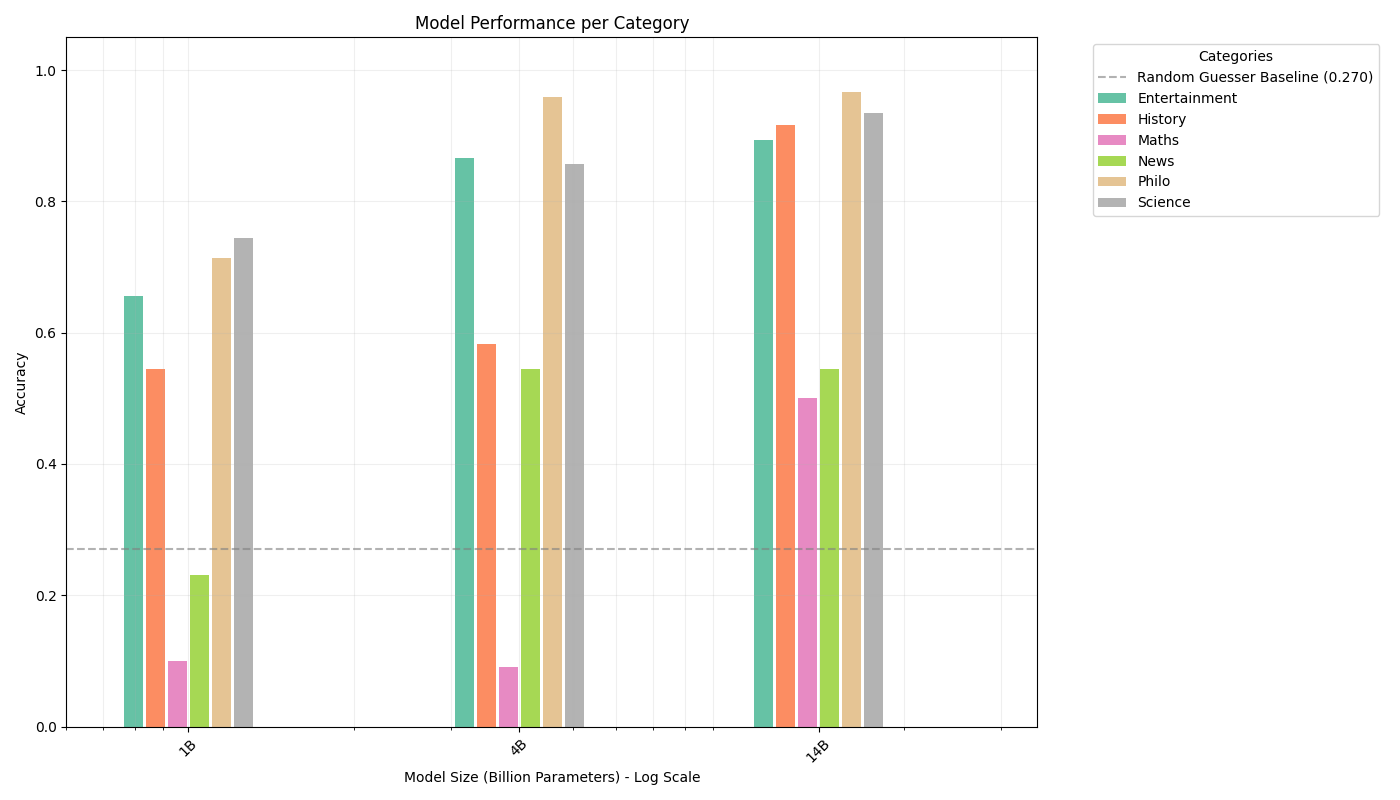
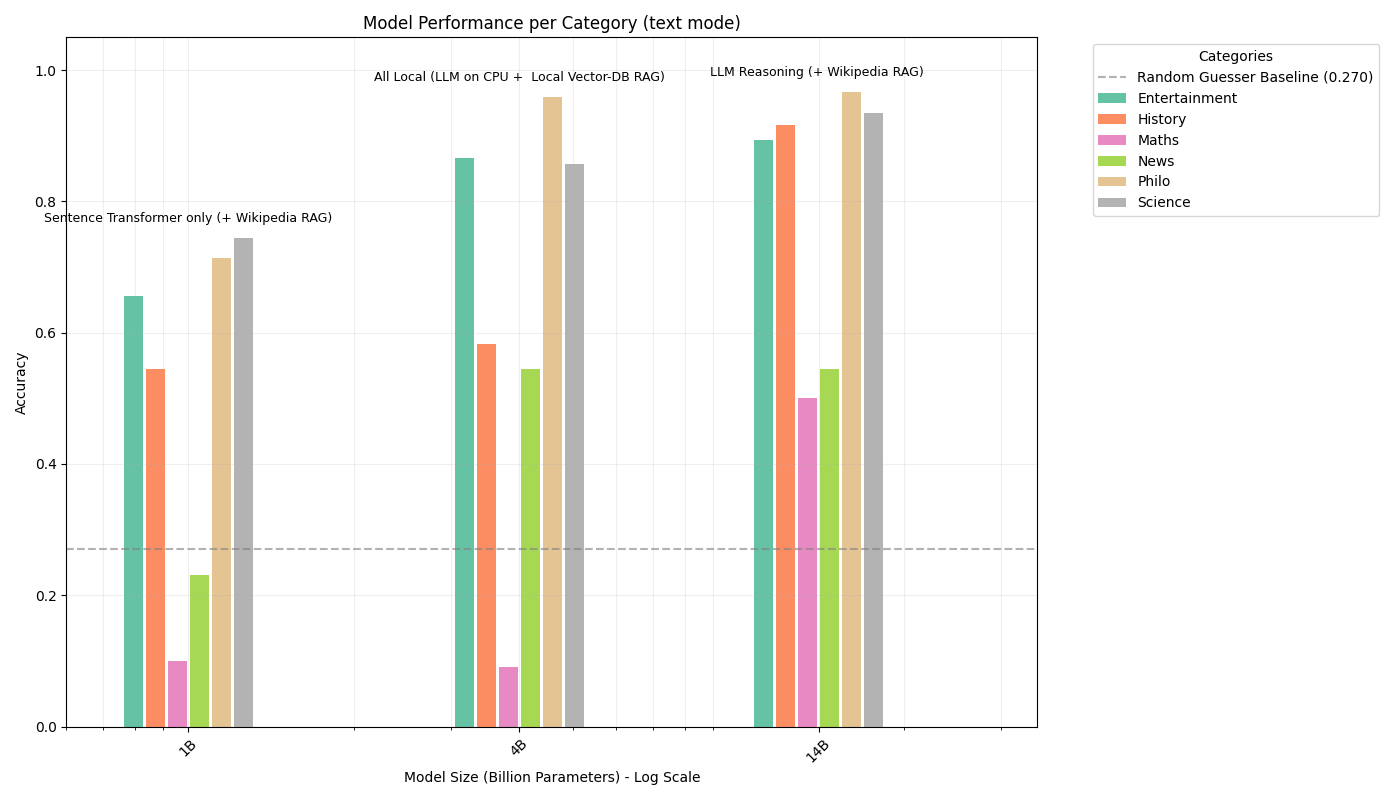
add descriptions

diff --git a/plots/performance_plots.py b/plots/performance_plots.py
@@ -141,7 +141,7 @@ tick_labels = [f"{int(t)}B" for t in ticks]
 # --- Plot 1: Box Plot (Original) ---
 fig1, ax1 = plt.subplots(figsize=(12, 7))
 ax1.set_xscale('log')
-ax1.axhline(y=random_baseline, color='grey', linestyle='--', alpha=0.6, label=f'Random Baseline (Mean Acc: {random_baseline:.3f})')
+ax1.axhline(y=random_baseline, color='grey', linestyle='--', alpha=0.6, label=f'Random Baseline\nMean Acc: {random_baseline:.3f}')
 
 for i, approach in enumerate(sorted_text_best_with_meta):
     item = approach["text"]
@@ -156,7 +156,7 @@ for i, approach in enumerate(sorted_text_best_with_meta):
     for patch in bp['boxes']:
         patch.set_facecolor(color)
         patch.set_alpha(0.7)
-        patch.set_label(f"{approach['name']} (Mean Acc: {item['overall_acc']:.3f})")
+        patch.set_label(f"{approach['name']}\nMean Acc: {item['overall_acc']:.3f}")
 
 ax1.set_xlabel('Model Size (Billion Parameters) - Log Scale')
 ax1.set_ylabel('Accuracy')
@@ -194,9 +194,13 @@ for i, approach in enumerate(sorted_text_best_with_meta):
             bar_width = bar_pos * 0.08 
             ax2.bar(bar_pos, acc, width=bar_width, color=cat_color_map[cat], label=cat if i == 0 else "") 
 
+    # Add approach label above/near the bars
+    ax2.text(10**center_pos, max(item['category_accs']) + 0.02,
+             approach["name"].replace('\n', ' '), ha='center', va='bottom', fontsize=9)
+
 ax2.set_xlabel('Model Size (Billion Parameters) - Log Scale')
 ax2.set_ylabel('Accuracy')
-ax2.set_title('Model Performance per Category')
+ax2.set_title('Model Performance per Category (text mode)')
 ax2.grid(True, which="both", ls="-", alpha=0.2)
 ax2.set_ylim(0, 1.05)
 ax2.set_xticks(ticks)
@@ -221,7 +225,6 @@ for i, approach in enumerate(sorted_text_best_with_meta):
         continue
     
     pos = approach["text"]["size"]
-    # Jitter if same size
     same_size_count = sum(1 for x in sorted_text_best_with_meta[:i] if x['text']['size'] == pos)
     center_pos = np.log10(pos) + (same_size_count * 0.4)
     
@@ -253,7 +256,7 @@ ax3.grid(True, which="both", ls="-", alpha=0.2)
 ax3.set_ylim(0, 1.1)
 ax3.set_xticks(ticks)
 ax3.set_xticklabels(tick_labels, rotation=45)
-ax3.legend(loc='upper right')
+ax3.legend(loc='upper left', bbox_to_anchor=(1.05, 1))
 plt.tight_layout()
 plt.savefig('text_vs_speech_comparison.png')
 
